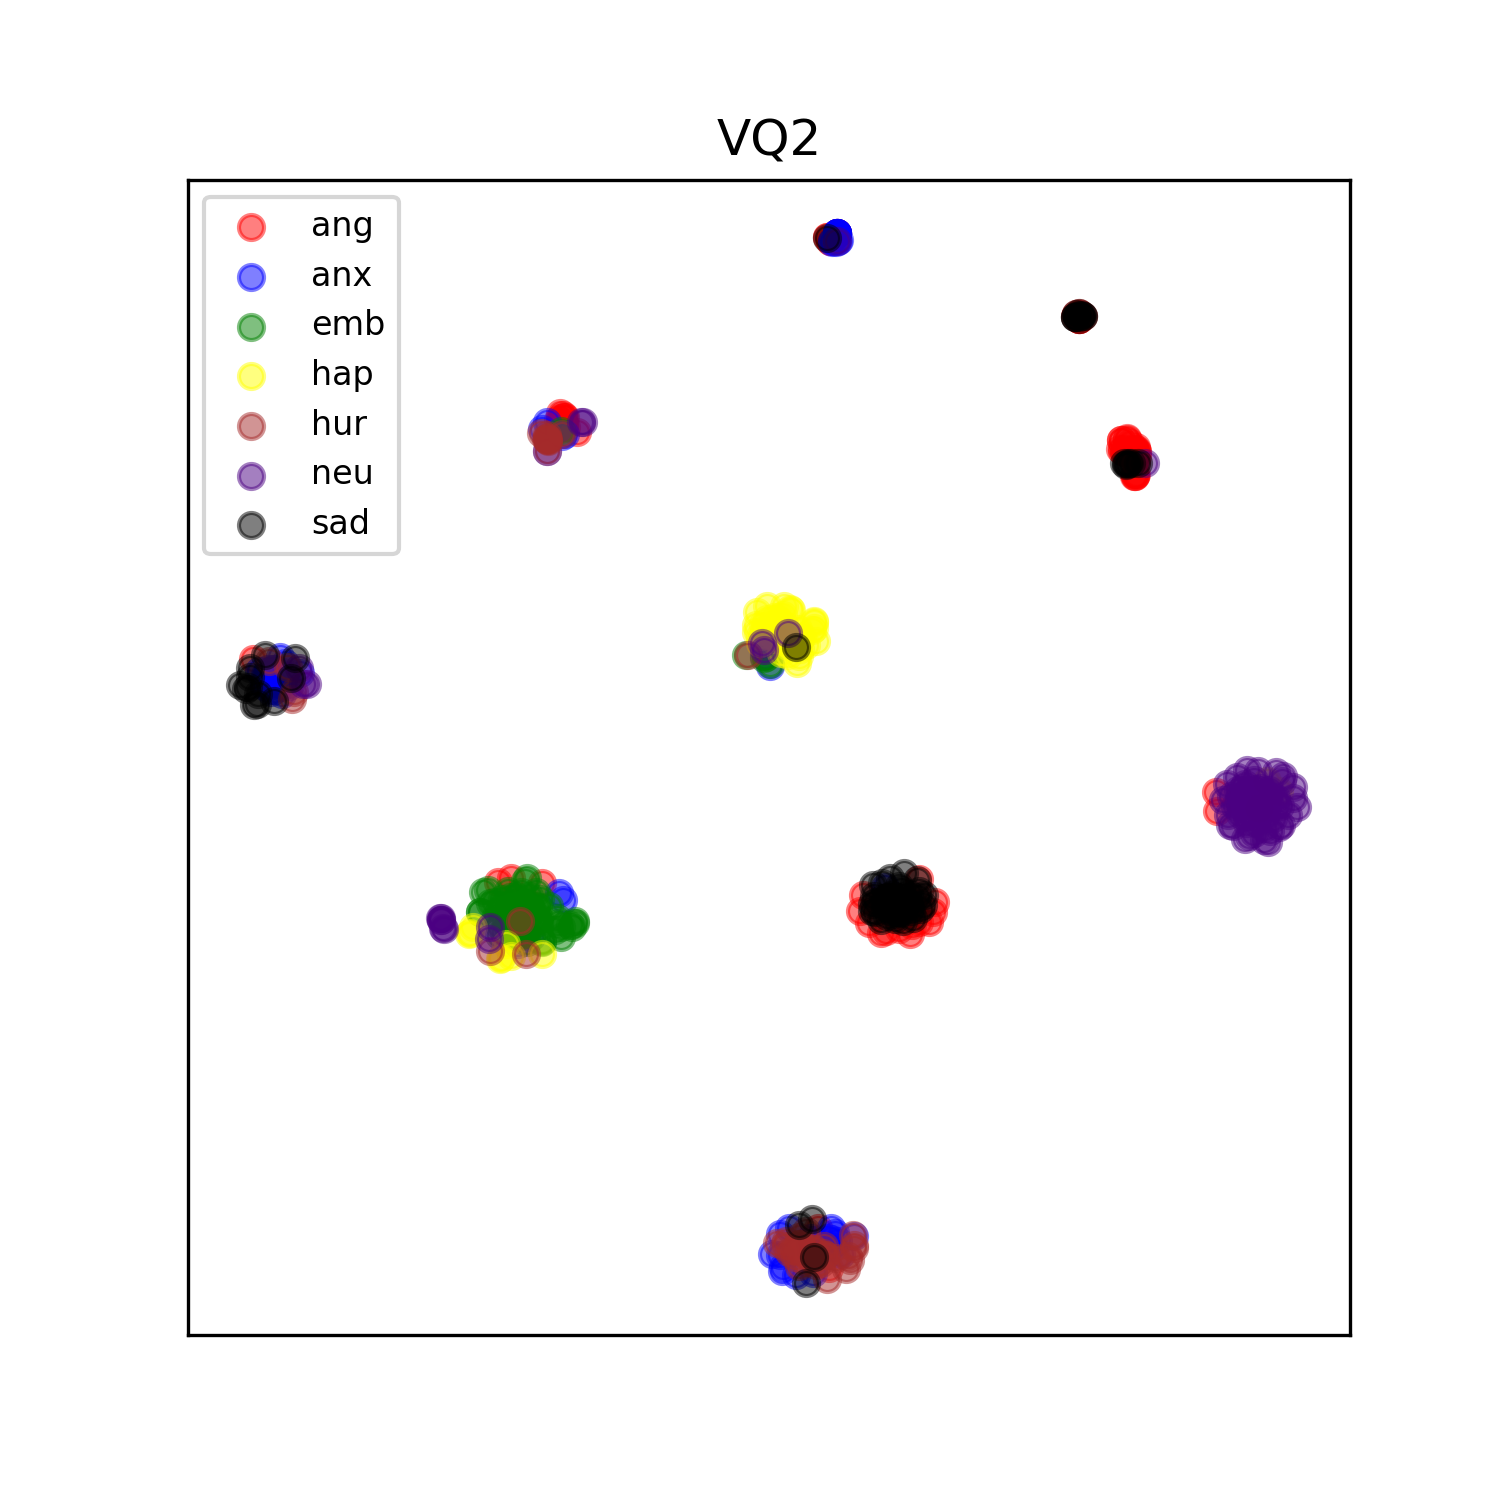
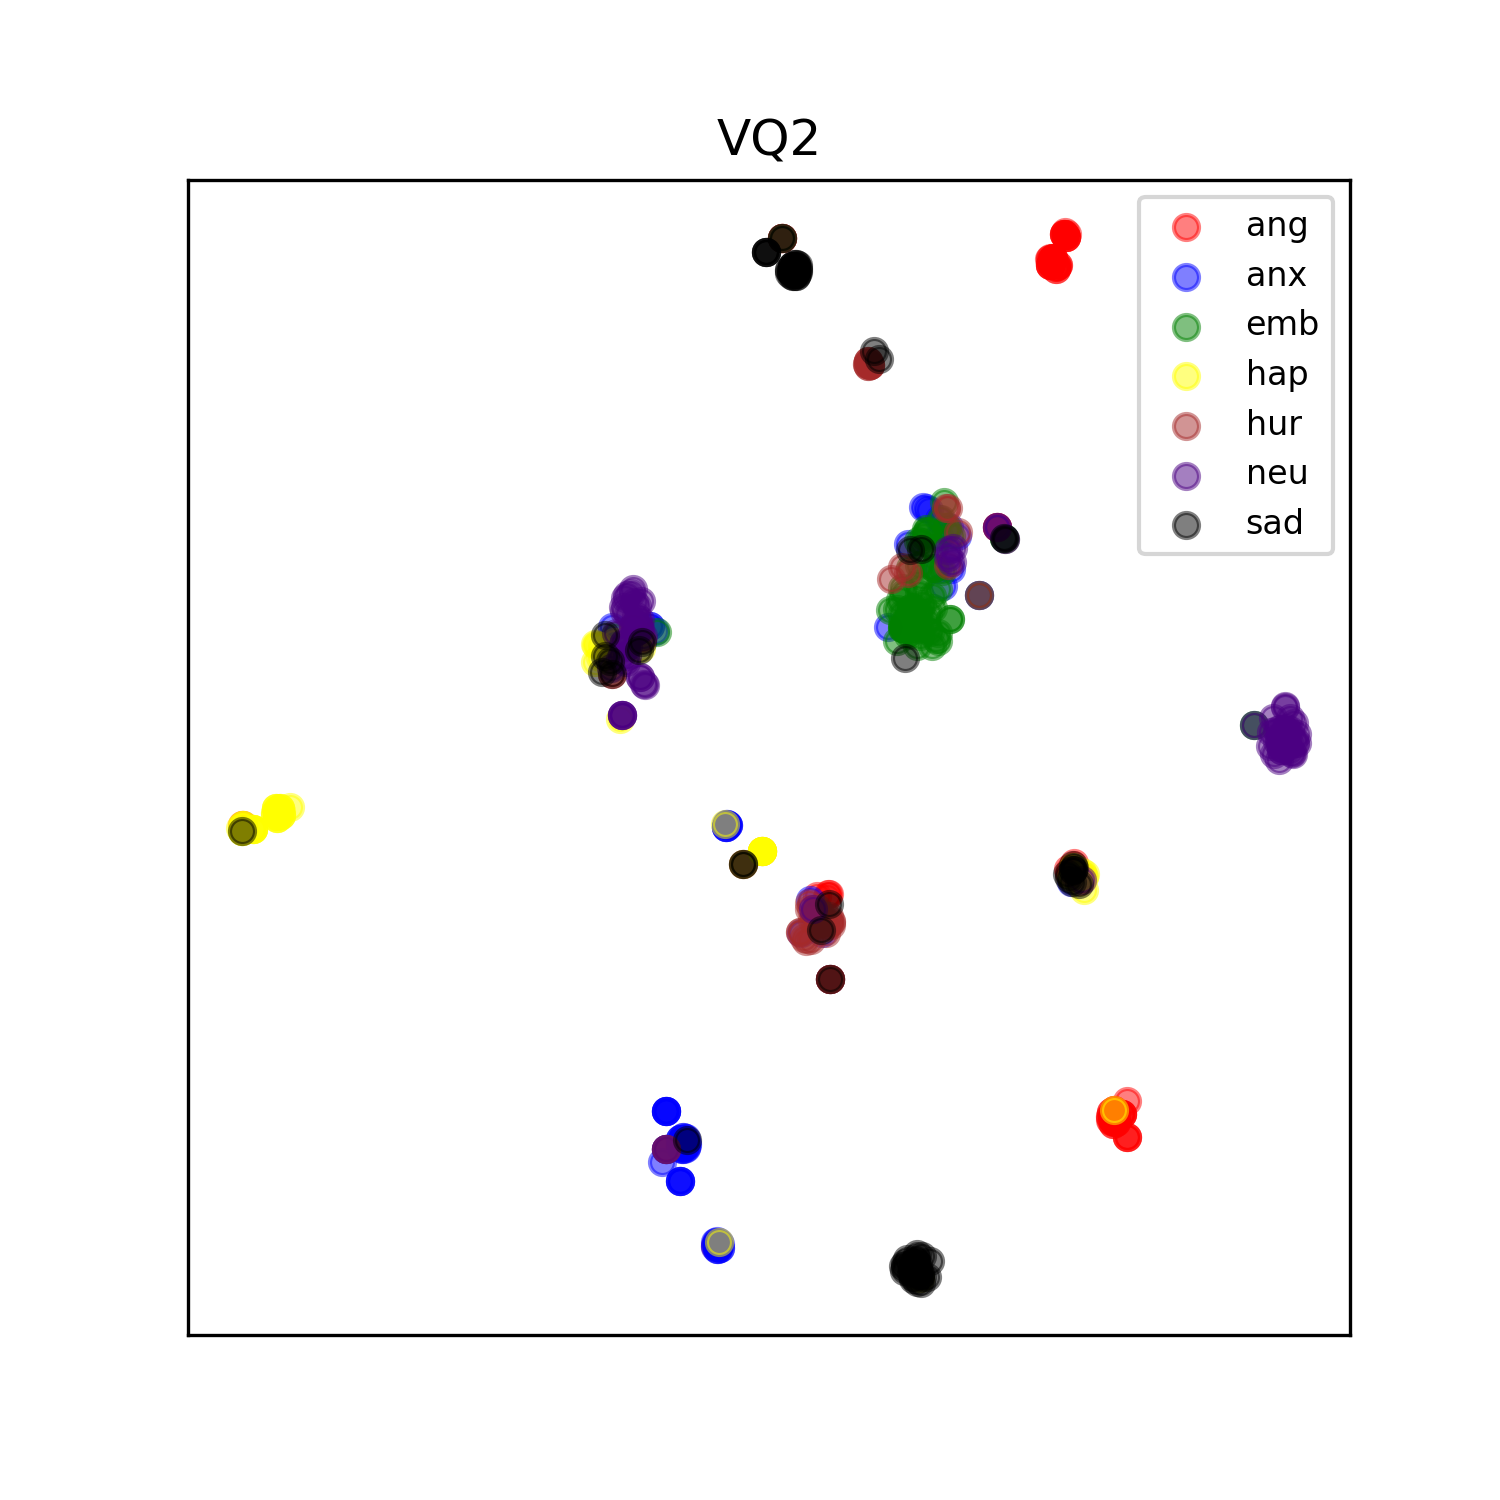
debug

diff --git a/train.py b/train.py
@@ -73,7 +73,7 @@ def train(rank, args, configs, batch_size, num_gpus):
     vocoder = get_vocoder(model_config, device)
 
     # Training
-    step = int(re.search(r"(\d+)", args.restore_step).group(1)) + 1
+    step = args.restore_step + 1
     # step = args.restore_step + 1
     epoch = 1
     grad_acc_step = train_config["optimizer"]["grad_acc_step"]
@@ -97,12 +97,12 @@ def train(rank, args, configs, batch_size, num_gpus):
         val_logger = SummaryWriter(val_log_path)
 
         outer_bar = tqdm(total=total_step, desc="Training", position=0)
-        # outer_bar.n = args.restore_step
-        outer_bar.n = int(re.search(r"(\d+)", args.restore_step).group(1))
+        outer_bar.n = args.restore_step
+        # outer_bar.n = int(re.search(r"(\d+)", args.restore_step).group(1))
         outer_bar.update()
 
     train = True
-    init_flag = True
+    init_flag = False
     model.train()
     while train:
         if rank == 0:
@@ -256,8 +256,8 @@ def train(rank, args, configs, batch_size, num_gpus):
 
                         model.train()
                         
-                        if losses[9].mean() > 0.4:
-                            init_flag = True   
+                        # if losses[9].mean() > 0.4:
+                        #     init_flag = True   
 
                         # if epoch < 5:
                         #     init_flag = True
@@ -335,7 +335,7 @@ def train(rank, args, configs, batch_size, num_gpus):
             
             # pitch_mel = pad_2D(pitch_mel)
             # pitch_mel = torch.from_numpy(pitch_mel).to('cpu')
-            # energy_mel = pad_2D(energy_mel)print
+            # energy_mel = pad_2D(energy_mel)
             # energy_mel = torch.from_numpy(energy_mel).to('cpu')
 
             ref_emb, cls_loss = model.ref_enc(mel, emotion)
@@ -349,20 +349,20 @@ def train(rank, args, configs, batch_size, num_gpus):
         
         torch.cuda.empty_cache()
 
-        # if model.style_extractor.vq_layers[0].dead_codes_count() < (7/2):
-        #     model.style_extractor.vq_layers[0].greedy_restart()
-        # else:
-        #     model.style_extractor.vq_layers[0].reset_dead_codes_kmeans(ref_embs)
+        if model.style_extractor.vq_layers[0].dead_codes_count() < (7/2):
+            model.style_extractor.vq_layers[0].greedy_restart()
+        else:
+            model.style_extractor.vq_layers[0].reset_dead_codes_kmeans(ref_embs)
         
-        # if model.style_extractor.vq_layers[1].dead_codes_count() < (7/2):
-        #     model.style_extractor.vq_layers[1].greedy_restart()
-        # else:
-        #     model.style_extractor.vq_layers[1].reset_dead_codes_kmeans(ref_embs - styles[:, :256])
+        if model.style_extractor.vq_layers[1].dead_codes_count() < (7/2):
+            model.style_extractor.vq_layers[1].greedy_restart()
+        else:
+            model.style_extractor.vq_layers[1].reset_dead_codes_kmeans(ref_embs - styles[:, :256])
         
-        # if model.style_extractor.vq_layers[2].dead_codes_count() < (7/2):
-        #     model.style_extractor.vq_layers[2].greedy_restart()
-        # else:
-        #     model.style_extractor.vq_layers[2].reset_dead_codes_kmeans(ref_embs - styles[:, :256] - styles[:, 256:512])
+        if model.style_extractor.vq_layers[2].dead_codes_count() < (7/2):
+            model.style_extractor.vq_layers[2].greedy_restart()
+        else:
+            model.style_extractor.vq_layers[2].reset_dead_codes_kmeans(ref_embs - styles[:, :256] - styles[:, 256:512])
 
         torch.cuda.empty_cache()
 
@@ -383,7 +383,7 @@ if __name__ == "__main__":
     assert torch.cuda.is_available(), 'CPU training is not allowed.'
     parser = argparse.ArgumentParser()
     parser.add_argument('--use_amp', action='store_true')
-    parser.add_argument('--restore_step', type=str, default=0)
+    parser.add_argument('--restore_step', type=int, default=0)
     parser.add_argument(
         '--dataset',
         type=str,

diff --git a/visualize.py b/visualize.py
@@ -57,7 +57,7 @@ if __name__ == "__main__":
 
     model = get_model(args, configs, device, train=False)
 
-    styles = []
+    styles, style_embs = [], []
     for i in range(len(file_path_list)):
         file_path = file_path_list[i]
         emotion = torch.tensor(emotions[i], device=device).unsqueeze(0)
@@ -70,18 +70,26 @@ if __name__ == "__main__":
         ref_embs, cls_loss = model.ref_enc(mel, emotion) #, pitch_mel, energy_mel)
         style, _, _, codebooks = model.style_extractor(ref_embs, cls_loss)
 
+        style_emb = model.style_extract_fc(style)
+        style_embs.append(style_emb.cpu().data[:, :])
+
         styles.append(style.cpu().data[:, :])
 
     emotions = np.array(emotions)
     styles = torch.cat(styles, dim=0)
+    style_embs = torch.cat(style_embs, dim=0)
 
     colors = ['red', 'blue', 'green', 'yellow', 'brown', 'indigo', 'black']
     labels = ['ang', 'anx', 'emb', 'hap', 'hur', 'neu', 'sad']
 
-    data_x_1 = styles[:, 0:256].numpy()
-    data_x_2 = styles[:, 256:512].numpy()
-    data_x_3 = styles[:, 512:].numpy()
-    data_x_4 = styles[:, :].numpy()
+    data_x_1 = styles[:, :].numpy()
+    data_x_2 = style_embs[:, :].numpy()
+    data_x_3 = styles[:, 0:256].numpy()
+    data_x_4 = styles[:, 256:512].numpy()
+    data_x_5 = styles[:, 512:].numpy()
+    
+
+    print("data_x_5", data_x_5.shape)
 
     def run_tsne(data, perplexity=20, n_iter=2000):
         if data.shape[1] == 0:
@@ -93,8 +101,9 @@ if __name__ == "__main__":
     tsne_2 = run_tsne(data_x_2)
     tsne_3 = run_tsne(data_x_3)
     tsne_4 = run_tsne(data_x_4)
+    tsne_5 = run_tsne(data_x_5)
 
-    fig, axes = plt.subplots(2, 2, figsize=(10, 10))
+    fig, axes = plt.subplots(2, 3, figsize=(15, 10))
 
     def scatter_tsne(ax, tsne_data, data_y, title=False):
         if tsne_data is None:
@@ -113,6 +122,7 @@ if __name__ == "__main__":
     scatter_tsne(axes[0, 1], tsne_2, emotions)
     scatter_tsne(axes[1, 0], tsne_3, emotions)
     scatter_tsne(axes[1, 1], tsne_4, emotions)
+    scatter_tsne(axes[1, 2], tsne_5, emotions)
 
     axes[0, 0].legend(loc='best', fontsize=8)
 

diff --git a/model/fastspeech2.py b/model/fastspeech2.py
@@ -109,7 +109,7 @@ class FastSpeech2(nn.Module):
             e_dim=model_config["residual_vq"]["vq_hidden"],
         )
         self.style_extractor = ResidualVQ_kmeans(
-            n_e=64, #  수정함
+            n_e=7, #  수정함
             e_dim=model_config["residual_vq"]["vq_hidden"],
             num_vq=model_config["residual_vq"]["num_rvq"],
         )
@@ -223,16 +223,16 @@ class FastSpeech2(nn.Module):
                 
                 # style_ref_embs, vq_loss, min_encoding_indices, codebooks = self.style_extractor(mels, emotions=emotions)
                 ref_embs, cls_loss = self.ref_enc(mels, emotions=emotions)
-                # if init_flag:
-                #     # kmeans_init !!!!
-                #     self.style_extractor.vq_layers[0].init_codebook_kmeans(ref_embs)
+                if init_flag:
+                    # kmeans_init !!!!
+                    self.style_extractor.vq_layers[0].init_codebook_kmeans(ref_embs)
 
                 style_ref_embs, vq_loss, min_encoding_indices, codebooks = self.style_extractor(ref_embs, cls_loss) 
                 # style_ref_embs, vq_loss, min_encoding_indices, codebooks = self.style_extractor(mels, p_targets=p_targets, d_targets=d_targets, e_targets=e_targets)
 
-                # if init_flag:
-                #     self.style_extractor.vq_layers[1].init_codebook_kmeans(ref_embs - style_ref_embs[:, :256])
-                #     self.style_extractor.vq_layers[2].init_codebook_kmeans(ref_embs - style_ref_embs[:, :256] - style_ref_embs[:, 256:512])
+                if init_flag:
+                    self.style_extractor.vq_layers[1].init_codebook_kmeans(ref_embs - style_ref_embs[:, :256])
+                    self.style_extractor.vq_layers[2].init_codebook_kmeans(ref_embs - style_ref_embs[:, :256] - style_ref_embs[:, 256:512])
                     
             # style_ref_embs shape : [16, 256*3]   
 

diff --git a/model/residual_vq_gaeun.py b/model/residual_vq_gaeun.py
@@ -375,7 +375,11 @@ class VectorQuantizer_kmeans(nn.Module):
         data: Tensor shape (M, e_dim)
             이번 epoch (혹은 일정 주기) 동안 모은 latent 샘플
         """
-        dead_codes = torch.nonzero((self.usage < self.usage_threshold) & (torch.arange(self.n_e) >= 7)).squeeze(1)
+        # dead_codes = torch.nonzero((self.usage < self.usage_threshold) & (torch.arange(self.n_e) >= 7)).squeeze(1)
+        device = self.usage.device  # self.usage는 GPU에 있음
+        dead_codes = torch.nonzero(
+            (self.usage < self.usage_threshold) & (torch.arange(self.n_e, device=device) >= 7)
+        ).squeeze(1)
         num_dead = len(dead_codes)
         if num_dead == 0:
             print("[reset_dead_codes_kmeans] No dead codes. Skip.")
@@ -436,8 +440,12 @@ class VectorQuantizer_kmeans(nn.Module):
         usage_threshold보다 작은 dead codes를 찾아,
         usage가 가장 높은 코드들(Top-K)의 임베딩으로 교체한다.
         """
-        # 1) dead_codes 탐색
-        dead_codes = torch.nonzero((self.usage < self.usage_threshold) & (torch.arange(self.n_e) >= 7)).squeeze(1)
+        # 1) dead_codes 탐색\
+        device = self.usage.device  # self.usage는 GPU에 있음
+        dead_codes = torch.nonzero(
+            (self.usage < self.usage_threshold) & (torch.arange(self.n_e, device=device) >= 7)
+        ).squeeze(1)
+        # dead_codes = torch.nonzero((self.usage < self.usage_threshold) & (torch.arange(self.n_e) >= 7)).squeeze(1)
         
         # 2) 사용 빈도가 높은 순서대로 정렬 후, dead_codes 개수만큼 가져오기
         # argsort()로 내림차순 정렬하면 usage가 큰 인덱스부터 순서대로 정렬되므로

diff --git a/model/loss.py b/model/loss.py
@@ -186,7 +186,7 @@ class FastSpeech2Loss(nn.Module):
         
         classifier_loss = torch.zeros_like(mel_loss)
         # for min_encoding_indice in min_encoding_indices:
-        orig_style_ref_embs = [orig_style_ref_embs[:, :256], orig_style_ref_embs[:, 256:512], orig_style_ref_embs[:, 256:384], orig_style_ref_embs[:, 384:512], orig_style_ref_embs[:, 512:]]
+        orig_style_ref_embs = [orig_style_ref_embs[:, :256], orig_style_ref_embs[:, 256:512], orig_style_ref_embs[:, 256:384], orig_style_ref_embs[:, 384:512], orig_style_ref_embs[:, 512:], style_ref_embs]
         
         for style_ref_emb in orig_style_ref_embs:
             emotions = inputs[3]
@@ -243,12 +243,17 @@ class FastSpeech2Loss(nn.Module):
 
         
         style_consistency_loss = torch.tensor(0.0).to(mel_targets.device)
+
+        # print("style_reconstructed", style_reconstructed.shape)
+        # print("style_ref_embs", style_ref_embs.shape)
+
         if style_reconstructed is not None:
-            style_consistency_loss = self.mae_loss(style_reconstructed, style_pred_embs.detach()) * 10
+            style_consistency_loss = self.mae_loss(style_reconstructed, style_ref_embs.detach()) 
         
         total_loss = (
-            mel_loss + postnet_mel_loss + duration_loss + pitch_loss + energy_loss + total_style_loss + vq_loss + classifier_loss + style_consistency_loss
+            mel_loss + postnet_mel_loss + duration_loss + pitch_loss + energy_loss + total_style_loss + vq_loss + classifier_loss # + style_consistency_loss
         )
+        
         return (
             total_loss,
             mel_loss,

diff --git a/synthesize.py b/synthesize.py
@@ -129,7 +129,7 @@ def synthesize(device, model, args, configs, vocoder, batchs, control_values):
     pitch_control, energy_control, duration_control = control_values
 
     # 감정 가중합 벡터 생성
-    style_vector = get_style_vector(args.emotion_weights, device)
+    # style_vector = get_style_vector(args.emotion_weights, device)
 
     for batch in batchs:
         batch = to_device(batch, device)
@@ -141,7 +141,7 @@ def synthesize(device, model, args, configs, vocoder, batchs, control_values):
                 e_control=energy_control,
                 d_control=duration_control,
                 inference=True,
-                style_vector=style_vector,  # <== 여기에 style_vector 추가
+                style_vector=None, #style_vector,  # <== 여기에 style_vector 추가
             )
             synth_samples(
                 batch,

diff --git a/utils/model.py b/utils/model.py
@@ -28,7 +28,7 @@ def get_model(args, configs, device, train=False):
 
     if train:
         scheduled_optim = ScheduledOptim(
-            model, train_config, model_config, int(re.search(r"(\d+)", args.restore_step).group(1))
+            model, train_config, model_config, args.restore_step
         )
         # if args.restore_step:
         #     scheduled_optim.load_state_dict(ckpt["optimizer"])
